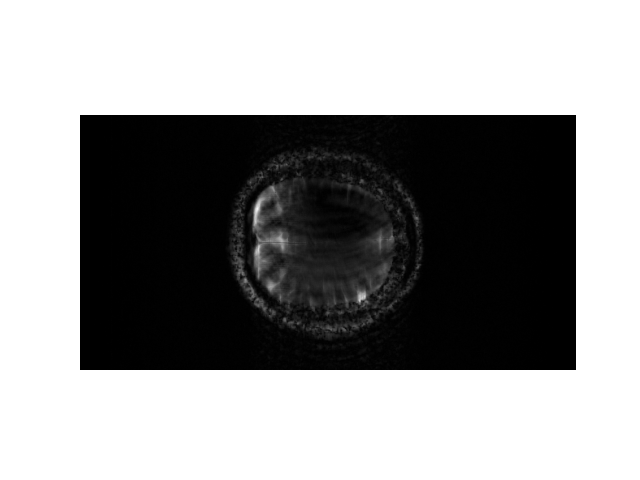
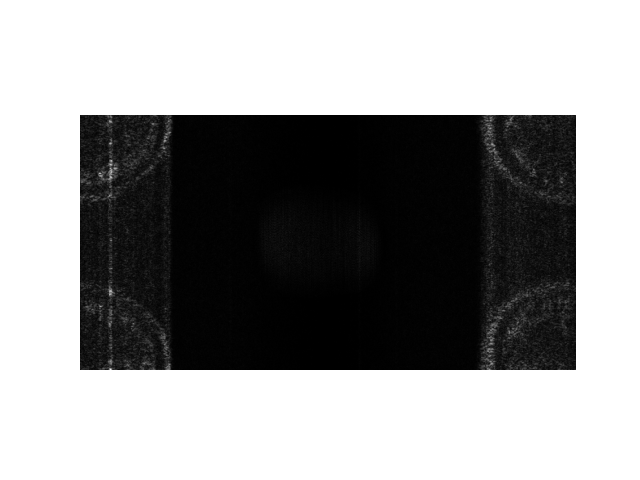
test recons

diff --git a/my_CDLNet/mri_utils.py b/my_CDLNet/mri_utils.py
@@ -18,7 +18,7 @@ def mri_encoding(x, acceleration_map, smaps):
     # We take a sensitivity map and assume it performs elementwise multiplication in the image domain [C x N x N]
     x_coils = smaps[:, :]* x[None, :, :]
     # x_coils is C x N x N
-    y_coils = fft.fftshift(fft.fft2(x_coils, norm = 'ortho'))
+    y_coils = (fft.fft2(x_coils, norm = 'ortho'))
     # y_coils is C x N x N
     y_mask = torch.einsum('jj, ijk -> ijk', acceleration_map, y_coils)
     return y_mask
@@ -28,7 +28,7 @@ def mri_decoding(y, acceleration_map, smaps):
     # Apply mask to each channel of y
     y_mask = torch.einsum('jj, ijk -> ijk', acceleration_map, y)
     # Apply ifft2
-    x_coils = fft.fftshift(fft.ifft2(y_mask, norm = 'ortho'))
+    x_coils = (fft.ifft2(y_mask, norm = 'ortho'))
     # Coil combination
     x = torch.einsum("ijk, ijk -> jk", smaps.conj(), x_coils)
     return x
